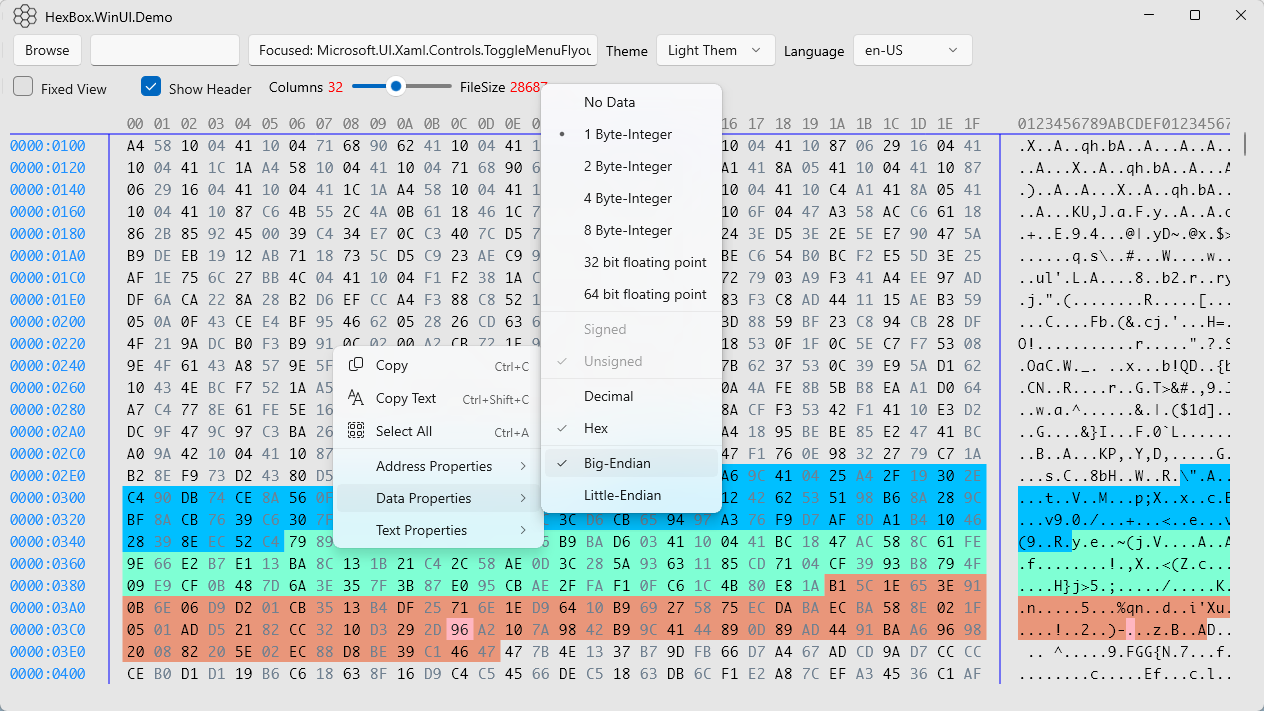
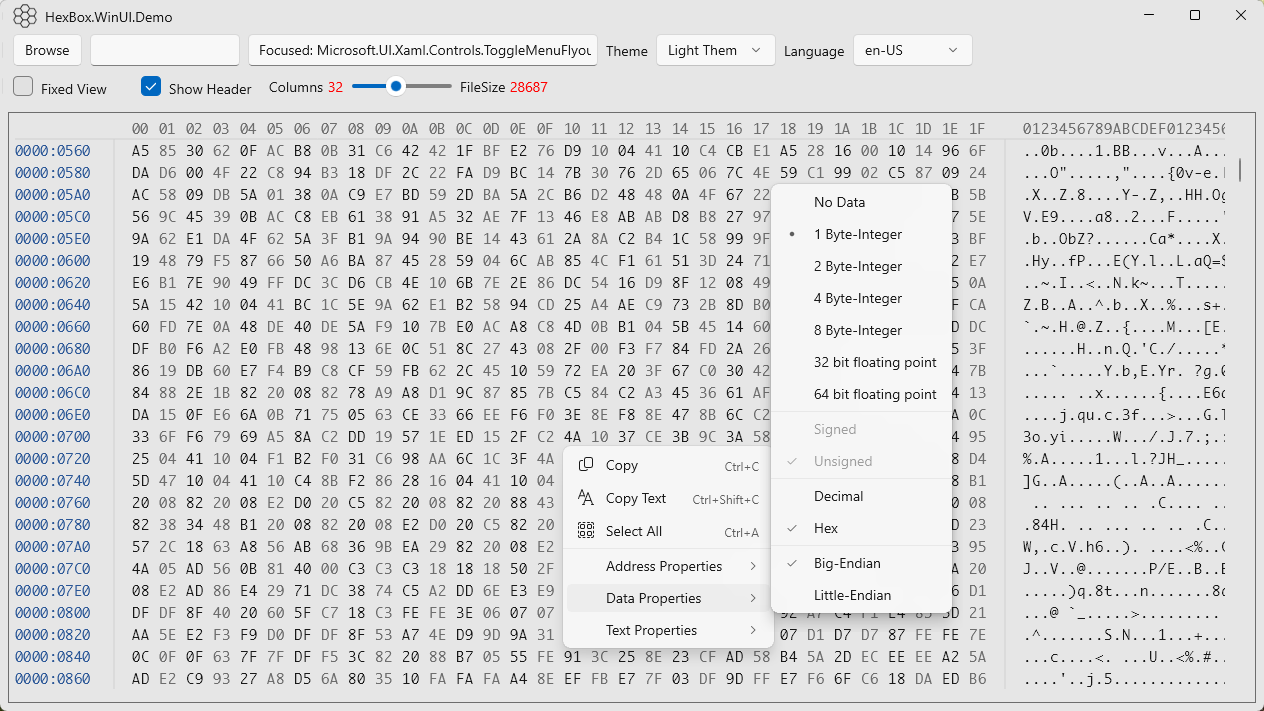
bump version

diff --git a/HexBox.WinUI/HexBox.cs b/HexBox.WinUI/HexBox.cs
@@ -1,4 +1,4 @@
-using HexBox.WinUI.Library.EndianConvert;
+using HexBox.WinUI.Library.EndianConvert;
 using Microsoft.UI;
 using Microsoft.UI.Input;
 using Microsoft.UI.Xaml;

diff --git a/README.md b/README.md
@@ -15,11 +15,11 @@ A WinUI3 control for displaying binary data in a traditional hex view.
 * template styling of the control
 * monospaced Font is not required.
 * highlight regions
-* shortcut
-* themes
+* shortcut (content menu/select/copy ...)
+* themes (light/dark/highcontrast)
 * **dynamic** localization
-* dpi 
-* columns header
+* DPI support 
+* columns header (show/hide)
 
 ## Preview
 * Operators
@@ -30,6 +30,11 @@ A WinUI3 control for displaying binary data in a traditional hex view.
 
 * Menu
 ![Menu](https://raw.githubusercontent.com/hotkidfamily/HexBox.WinUI/master/docs/HexBox.WinUI.Menu.png)
+
+* Theme
+![Light](https://raw.githubusercontent.com/hotkidfamily/HexBox.WinUI/master/docs/HexBox.WinUI.Theme.Light.png)
+
+![Dark](https://raw.githubusercontent.com/hotkidfamily/HexBox.WinUI/master/docs/HexBox.WinUI.Theme.Dark.png)
 
 ## Thanks
 Fork from [HexView.Wpf](https://github.com/fjeremic/HexView.Wpf.git)
